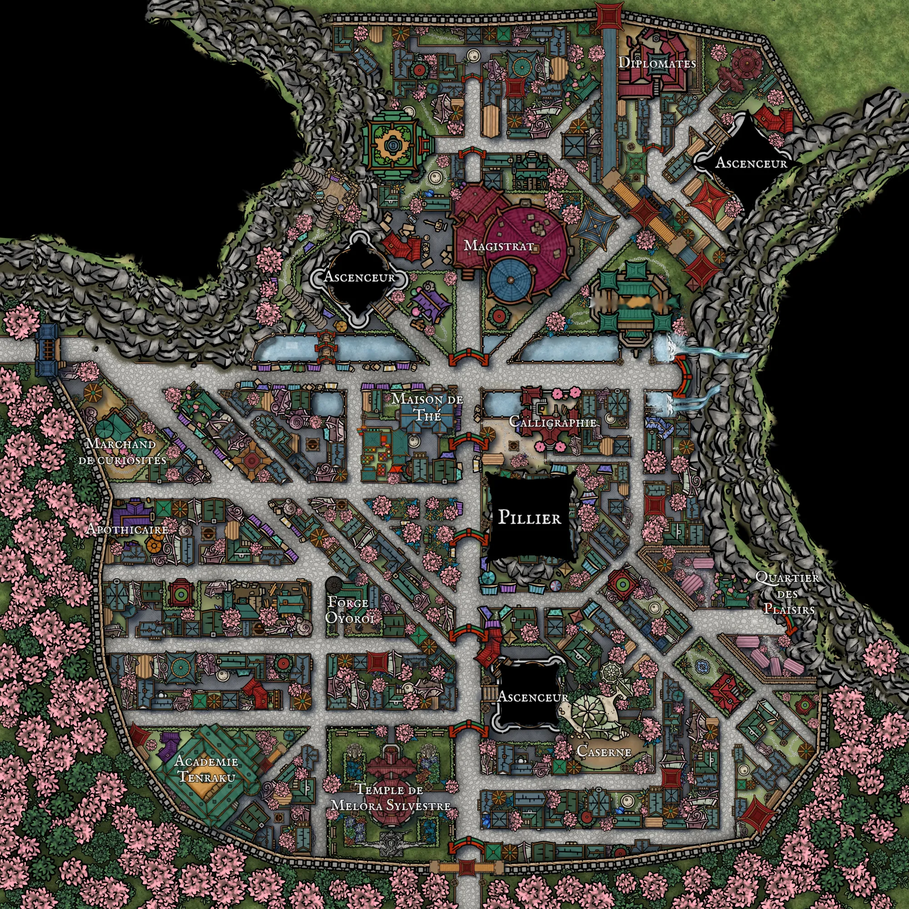
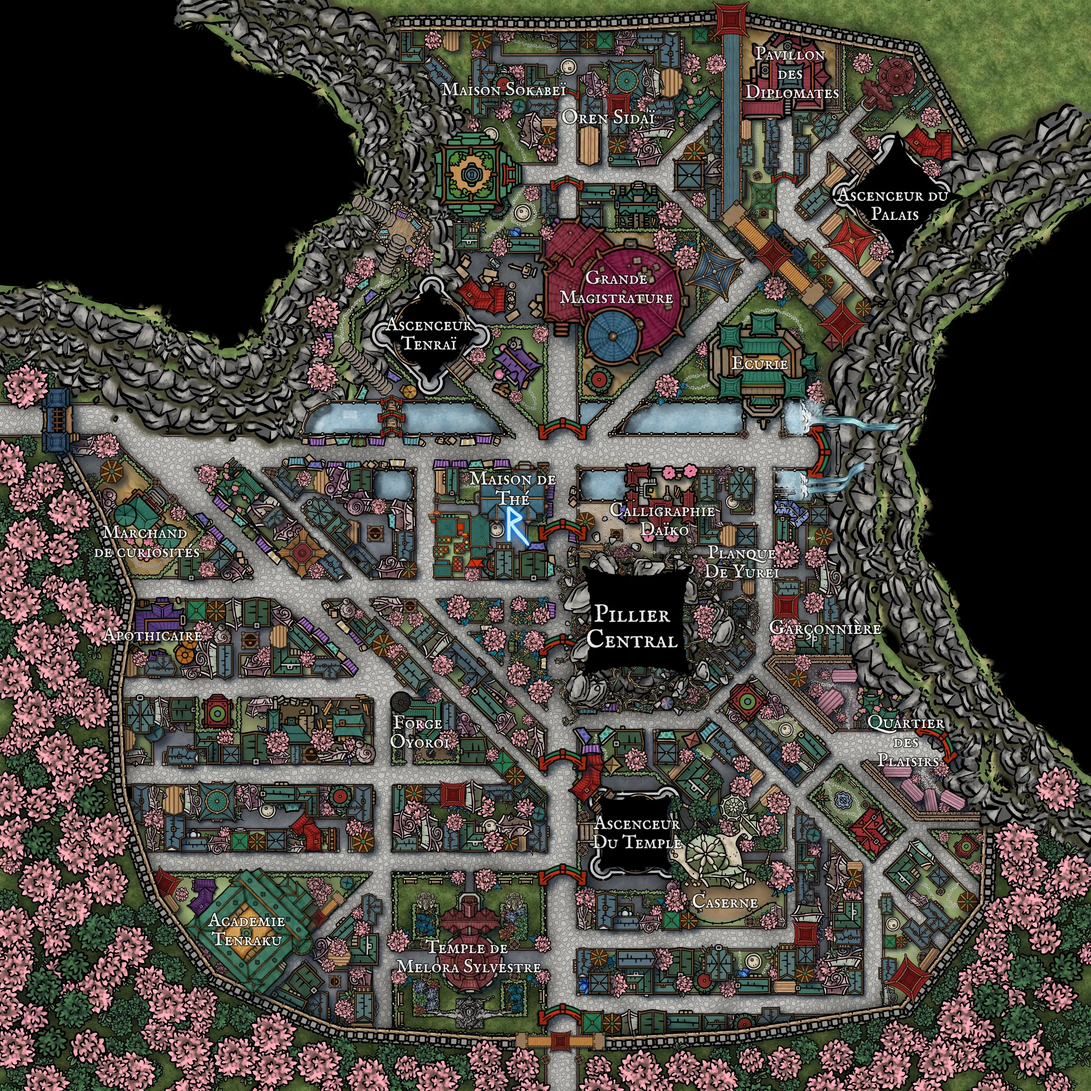
v47: fiche directe depuis les bulles, carousel des personnages, assets a hauteur egale, dedoublonnage des textes, carte basse Roshen Buru, Tier Voyage
Claude-Session: https://claude.ai/code/session_019414NFqQdvgqhEz9Y8wLfq

diff --git a/assets/app.js b/assets/app.js
@@ -4,7 +4,7 @@
 (() => {
 'use strict';
 
-const VER = '46';
+const VER = '47';
 const EDIT = new URLSearchParams(location.search).has('edit');
 const $ = (s, r = document) => r.querySelector(s);
 const esc = s => String(s ?? '').replace(/[&<>"]/g, c => ({ '&': '&amp;', '<': '&lt;', '>': '&gt;', '"': '&quot;' }[c]));
@@ -207,14 +207,14 @@ function sceneOf(e, q, depth = 0) {
       const om = ownerMap(e);
       if (!om) {
         const ps = sceneOf(BY[e.parent], null, depth + 1);
-        if (ps && depth === 0 && ps.kind === 'map') return { ...ps, gallery: (e.galerie && e.galerie.length) ? e.galerie : (ps.gallery || [PH_LAND]) };
+        if (ps && depth === 0 && ps.kind === 'map') return withCast({ ...ps, gallery: (e.galerie && e.galerie.length) ? e.galerie : (ps.gallery || [PH_LAND]) }, e);
         return ps;
       }
       const host = om.host, cs = host.cartes;
       if (cs.length > 1) {
         const st = stackScene(host, e);
         if (e.galerie && e.galerie.length) st.gallery = e.galerie;
-        return st;
+        return depth === 0 ? withCast(st, e) : st;
       }
       const base = {
         kind: 'map', src: om.carte.img, cam: e.pos ? around(e.pos, Math.max(e.zoom || 0.2, 0.18)) : FULL, owner: host, tabs: cs, tab: cs.indexOf(om.carte),
@@ -222,7 +222,7 @@ function sceneOf(e, q, depth = 0) {
         pins: collectLieux(host).filter(l => (l.carte || cs[0].id) === om.carte.id && l.pos).map(l => ({ id: l.id, ...l.pos, label: l.nom, kind: 'lieu', dim: l.id !== e.id, here: l.id === e.id }))
       };
       if (e.galerie && e.galerie.length) base.gallery = e.galerie;
-      return base;
+      return depth === 0 ? withCast(base, e) : base;
     }
     default: {
       const lieu = e.lieu ? BY[e.lieu] : null;
@@ -241,6 +241,22 @@ function sceneOf(e, q, depth = 0) {
       return s;
     }
   }
+}
+function castOf(e) {
+  const ps = kids(e.id, 'pnj').concat(DB.filter(x => x.lieu === e.id && x.parent !== e.id && x.type === 'pnj'));
+  const seen = new Set();
+  return ps.filter(p => !seen.has(p.id) && seen.add(p.id) && ((p.formes && p.formes[0] && p.formes[0].img) || p.img));
+}
+function withCast(sc, e) {
+  if (!sc || !sc.gallery || sc.kind === 'stack') return sc;
+  const cast = castOf(e);
+  if (!cast.length) return sc;
+  const bg = sc.gallery[0];
+  const extra = cast.map(p => {
+    const f = formeFor(p, e.id);
+    return { img: bg.img, legende: p.nom, who: p, cut: f && f.img ? f : { img: p.img, teinte: p.teinte, label: '' } };
+  });
+  return { ...sc, gallery: sc.gallery.concat(extra) };
 }
 function stackScene(host, focus) {
   const cs = host.cartes, lieux = collectLieux(host);
@@ -477,12 +493,13 @@ function showGallery(imgs, title, ent) {
     cur = (n + imgs.length) % imgs.length;
     g.querySelectorAll('.sl').forEach((s, i) => { s.classList.toggle('act', i === cur); });
     g.querySelectorAll('.gdots i').forEach((d, i) => d.classList.toggle('on', i === cur));
-    const c = imgs[cur].cut;
+    const c = imgs[cur].cut, who = imgs[cur].who || ent;
     if (ent && ent.etapes && c) {
       $('.gt', g).textContent = `Étape ${cur + 1} sur ${imgs.length} : ${c.label}`;
       panelEl.querySelectorAll('.etape').forEach((x, i) => x.classList.toggle('on', i === cur));
-    } else $('.gt', g).textContent = [imgs[cur].legende, c && ent && ent.formes && ent.formes.length > 1 && c !== ent.formes[0] ? c.label : ''].filter(Boolean).join(', ');
-    if (ent && c) { S.curForm = c; S.curFormOf = ent.id; setCutout(ent, c); }
+    } else $('.gt', g).textContent = [imgs[cur].legende, c && who && who.formes && who.formes.length > 1 && c !== who.formes[0] ? c.label : ''].filter(Boolean).join(', ');
+    if (who && c) { S.curForm = c; S.curFormOf = who.id; setCutout(who, c); }
+    else if (imgs.some(i => i.who)) { S.curForm = null; S.curFormOf = null; setCutout(null); }
   };
   go(0);
   g.addEventListener('click', ev => {
@@ -532,7 +549,7 @@ function setCutout(e, form) {
   c.innerHTML = `<i class="glow"></i><img src="${src}" alt="${esc(e.nom)}">`;
   stageEl.insertBefore(c, $('.fog', stageEl));
   const ci = $('img', c);
-  const cfit = () => { if (ci.naturalHeight && src) ci.style.maxHeight = Math.min(stageEl.clientHeight * (innerWidth <= 760 ? 0.78 : 0.86), ci.naturalHeight * 1.7) + 'px'; };
+  const cfit = () => { if (ci.naturalHeight && src) { const mh = stageEl.clientHeight * (innerWidth <= 760 ? 0.78 : 0.86); ci.style.height = mh + 'px'; ci.style.maxHeight = mh + 'px'; ci.style.width = 'auto'; ci.style.maxWidth = (stageEl.clientWidth * 0.6) + 'px'; } };
   if (ci.complete) cfit(); else ci.addEventListener('load', cfit);
   const anchor = () => {
     const bg = S.gal && $('.sl.act img', S.gal); if (!bg || !bg.naturalWidth) return;
@@ -570,7 +587,8 @@ async function applyScene(e, q, token) {
   if (!sc) { stageEl.classList.add('empty'); return; }
   const key = sceneKey(sc);
   renderCap(sc, e);
-  if (key === S.key) { setCutout(sc.cutout); return; }
+  const castG = !!(sc.gallery && sc.gallery.some(g => g.who));
+  if (key === S.key) { if (!castG) setCutout(sc.cutout); return; }
   // sens du zoom
   let dir = null, focus = null;
   if (prevEntry && S.map && S.map.src !== sc.src) {
@@ -584,7 +602,7 @@ async function applyScene(e, q, token) {
     const sameGal = S.gal && S.galKey === JSON.stringify(sc.gallery.map(g => g.img + (g.cut ? g.cut.img : '')));
     if (!sameGal) { showGallery(sc.gallery, e.nom, sc.cutout); S.galKey = JSON.stringify(sc.gallery.map(g => g.img + (g.cut ? g.cut.img : ''))); }
   } else { clearGal(); S.galKey = null; }
-  setCutout(sc.cutout);
+  if (!castG) setCutout(sc.cutout);
 }
 function focusIn(e, mapSrc) {
   for (const c of chain(e).reverse()) {
@@ -731,7 +749,6 @@ function savoirItems(e) {
   const isP = e.type === 'pnj' || e.type === 'pj';
   const pl = e.lieu && BY[e.lieu] ? BY[e.lieu] : (e.parent && BY[e.parent] && ['lieu', 'ville'].includes(BY[e.parent].type) ? BY[e.parent] : null);
   const vil = pl && pl.type === 'lieu' ? chain(pl).find(c => c.type === 'ville') : null;
-  if (isP && e.type === 'pnj' && pl) out.push(`Vu : ${pl.nom}${vil ? ' (' + vil.nom + ')' : ''}`);
   (e.connu || []).forEach(t => out.push(L(t, e.id)));
   if (e.type !== 'pj' && e.type !== 'evenement') (e.histoire || []).forEach(t => out.push(L(t, e.id)));
   return out;
@@ -764,7 +781,7 @@ function renderPanel(e, q) {
   const mp = mergedPlace(e);
   if (mp && mp.chapeau) h += `<p class="chapeau">${L(mp.chapeau, e.id)}</p>`;
   else if (e.chapeau) h += `<p class="chapeau">${L(e.chapeau, e.id)}</p>`;
-  if (e.resume) h += `<p class="resume">${L(e.resume, e.id)}</p>`;
+  if (e.resume && !(mp && mp.chapeau) && !e.chapeau) h += `<p class="resume">${L(e.resume, e.id)}</p>`;
   if (mp) {
     const pit = [...(mp.connu || []), ...(mp.histoire || [])].map(t => L(t, e.id));
     if (pit.length) h += sec(mp.nom, '<ul>' + pit.map(t => `<li>${t}</li>`).join('') + '</ul>', 'past');
@@ -814,24 +831,13 @@ function renderPanel(e, q) {
     if (d) d.click();
   }));
 
-  // bulles : accordeon + silhouette sur la scene
-  const box = $('#npcbox');
-  if (box) {
-    let sel = null;
-    const open = id => {
-      const p = BY[id];
-      if (sel === id) { sel = null; box.innerHTML = ''; setCutout(null); S.cut = null; panelEl.querySelectorAll('.bub.sel').forEach(b => b.classList.remove('sel')); return; }
-      sel = id;
-      box.innerHTML = `<div class="npcbox">${detailBlock(p)}</div>`;
-      panelEl.querySelectorAll('.bub').forEach(b => b.classList.toggle('sel', b.dataset.id === id));
-      S.curForm = null; S.curFormOf = null; setCutout(p, formeFor(p, S.entry && S.entry.id));
-    };
-    $('#npcs').addEventListener('click', ev => {
-      const b = ev.target.closest('[data-npc]');
-      if (!b) return;
-      ev.preventDefault(); open(b.dataset.id);
-    });
-  }
+  // bulles : ouvre directement la fiche complete
+  const npcs = $('#npcs');
+  if (npcs) npcs.addEventListener('click', ev => {
+    const b = ev.target.closest('[data-npc]');
+    if (!b) return;
+    ev.preventDefault(); location.hash = '#/' + b.dataset.id;
+  });
 }
 
 /* ---------- routage ---------- */

diff --git a/assets/codex.css b/assets/codex.css
@@ -329,7 +329,7 @@ a.wcrest:hover .wn { color: var(--gold-hi); }
 .sec.past h3::after { background: linear-gradient(to right, rgba(217,143,90,.5), transparent); }
 .sec ul { list-style: none; }
 .sec li { position: relative; padding: 0 0 9px 18px; color: var(--text-soft); line-height: 1.55; }
-.sec li::before { content: ''; position: absolute; left: 3px; top: .62em; width: 5px; height: 5px; background: var(--gold); transform: rotate(45deg); opacity: .6; }
+.sec li::before { content: ''; position: absolute; left: 3px; top: calc(.775em - 2.5px); width: 5px; height: 5px; background: var(--gold); transform: rotate(45deg); opacity: .6; }
 .sec.past li::before { background: #d98f5a; }
 .sec li.avis { color: #e8dfc8; background: rgba(201,168,76,.07); border-left: 2px solid var(--gold); padding: 7px 10px 7px 14px; margin: 4px 0 10px; border-radius: 0 4px 4px 0; }
 .sec li.avis::before { display: none; }
@@ -446,6 +446,7 @@ li.key { border-left: 2px solid var(--gold); padding-left: 10px; margin-left: -1
 .cutout .glow { bottom: -14%; }
 .sec ul li { text-align: left; }
 .sec li + li { border-top: 1px solid rgba(201,168,76,.08); padding-top: 8px; }
+.sec li + li::before { top: calc(.775em - 2.5px + 8px); }
 .scenar { margin: 22px 0 6px; padding: 14px 18px 8px; border: 1px solid rgba(201,168,76,.6); border-left: 4px solid var(--gold); border-radius: 4px; background: linear-gradient(135deg, rgba(201,168,76,.12), rgba(201,168,76,.03)); box-shadow: 0 6px 20px rgba(0,0,0,.35); }
 .scenar .sch { font-family: 'Cinzel', serif; font-weight: 700; font-size: 12px; letter-spacing: .16em; text-transform: uppercase; color: var(--gold-hi, #f0d78a); margin-bottom: 8px; }
 .scenar p { font-weight: 600; color: #efe7d4; line-height: 1.5; margin: 0 0 8px; }

diff --git a/index.html b/index.html
@@ -7,7 +7,7 @@
   <meta name="description" content="Le codex des joueurs de la campagne Thaldera : cartes, lieux, personnages et liens.">
   <link rel="preconnect" href="https://fonts.googleapis.com">
   <link href="https://fonts.googleapis.com/css2?family=Cinzel:wght@400;600;700&family=Roboto+Slab:wght@900&family=EB+Garamond:ital,wght@0,400;0,500;1,400&display=swap" rel="stylesheet">
-  <link rel="stylesheet" href="assets/codex.css?v=46">
+  <link rel="stylesheet" href="assets/codex.css?v=47">
 </head>
 <body>
 <header class="top">
@@ -37,6 +37,6 @@
 <div id="rlog" class="qlog" role="dialog" aria-label="Runes de Philippa" hidden></div>
 
 <noscript><p style="padding:2rem">Le codex demande JavaScript.</p></noscript>
-<script src="assets/app.js?v=46"></script>
+<script src="assets/app.js?v=47"></script>
 </body>
 </html>
